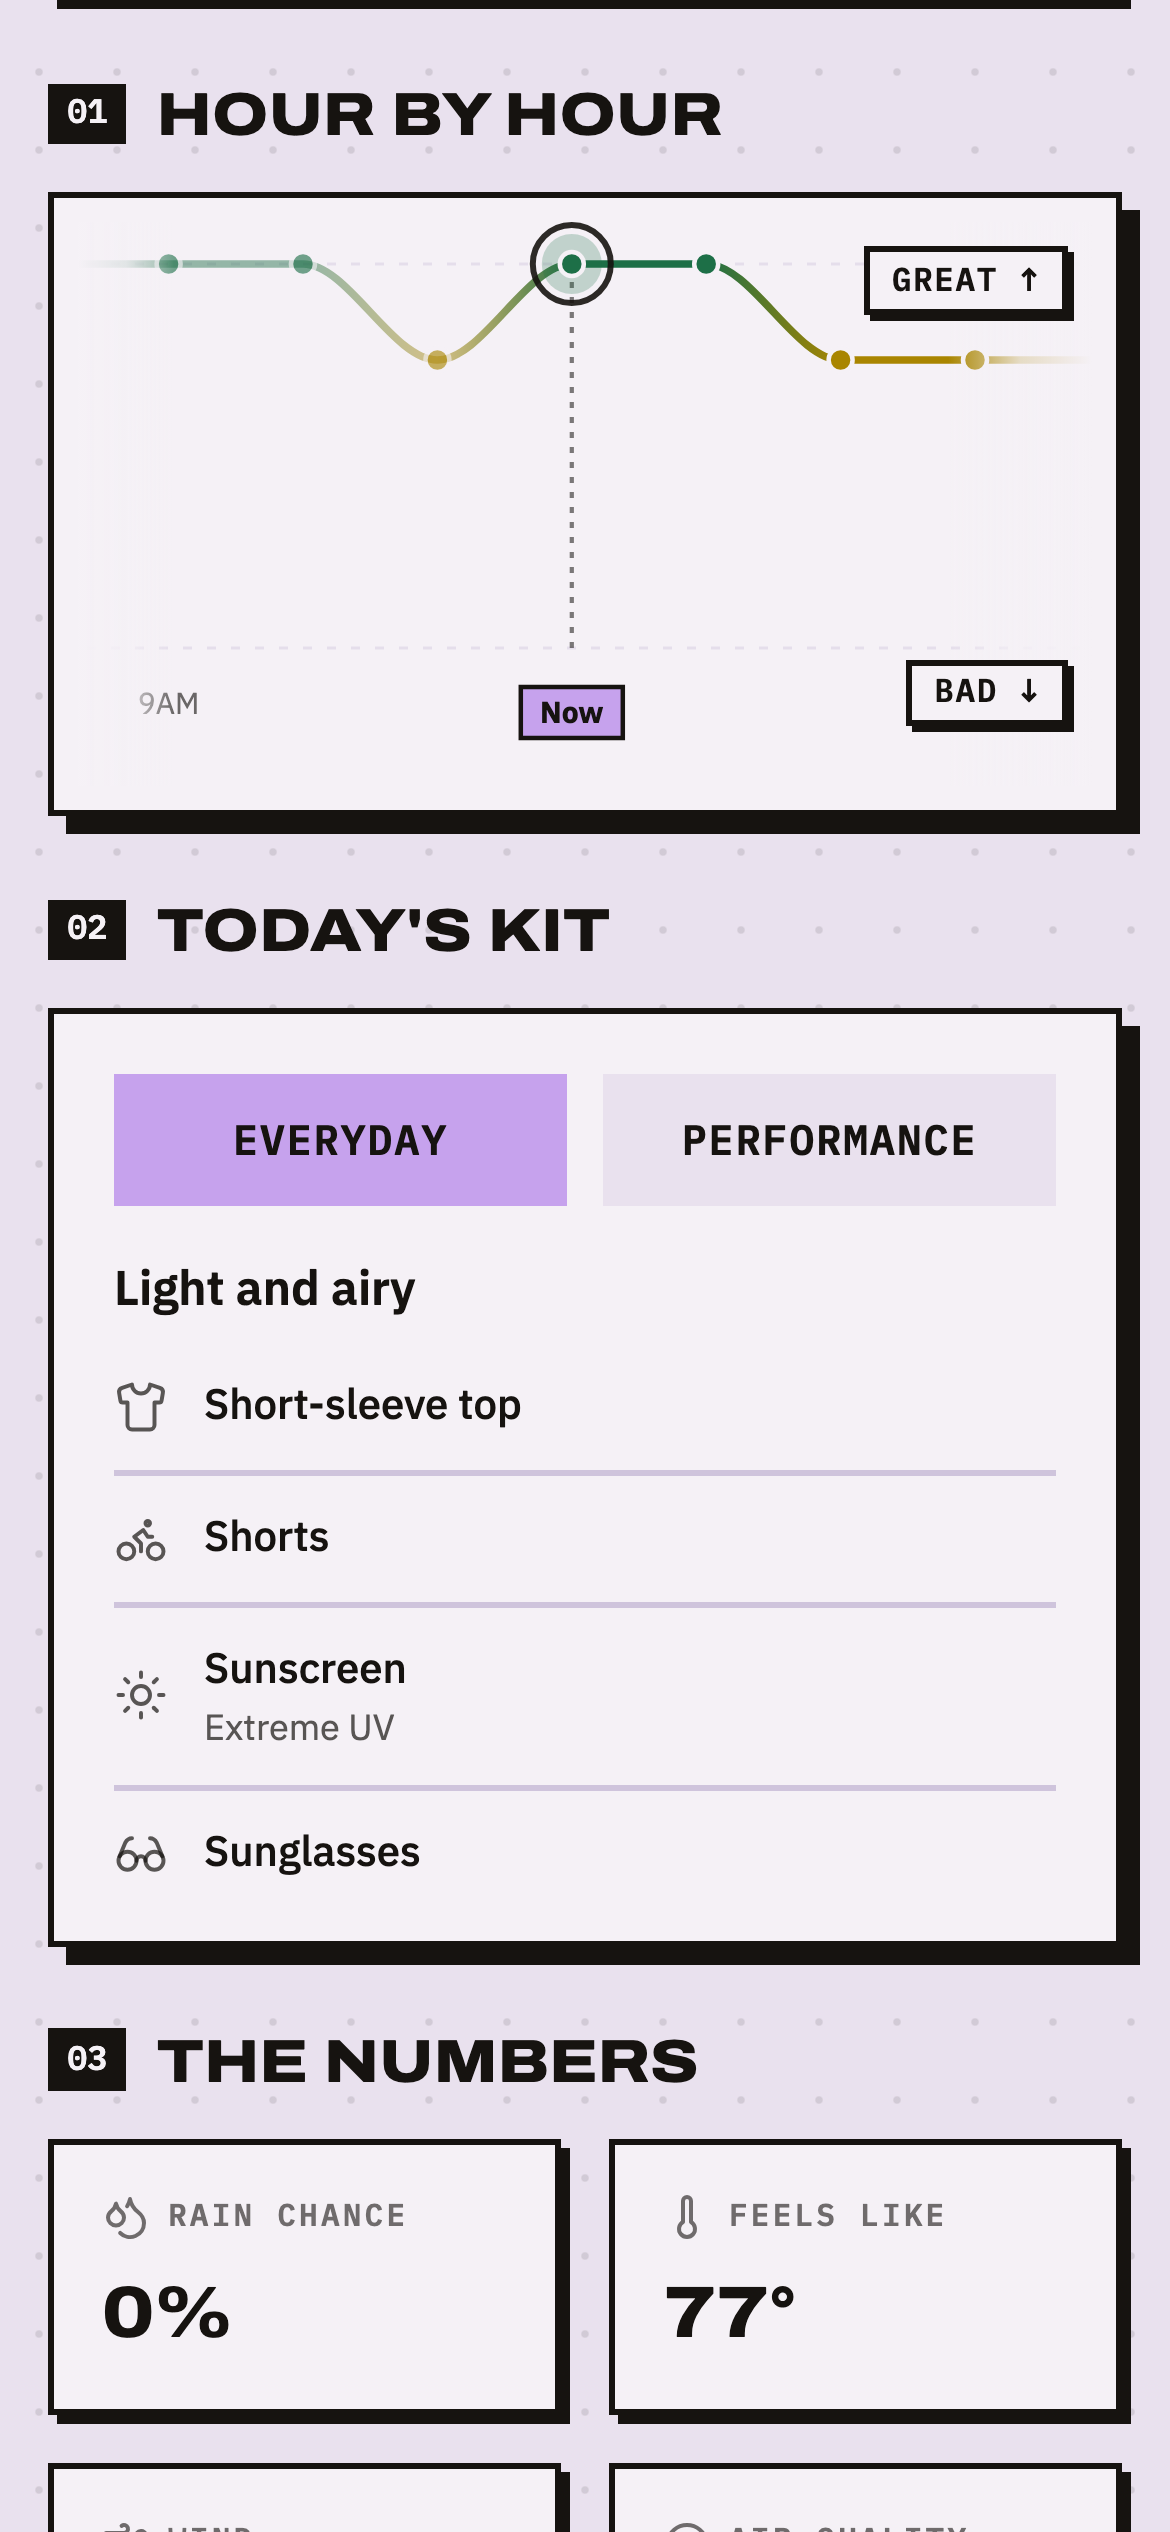
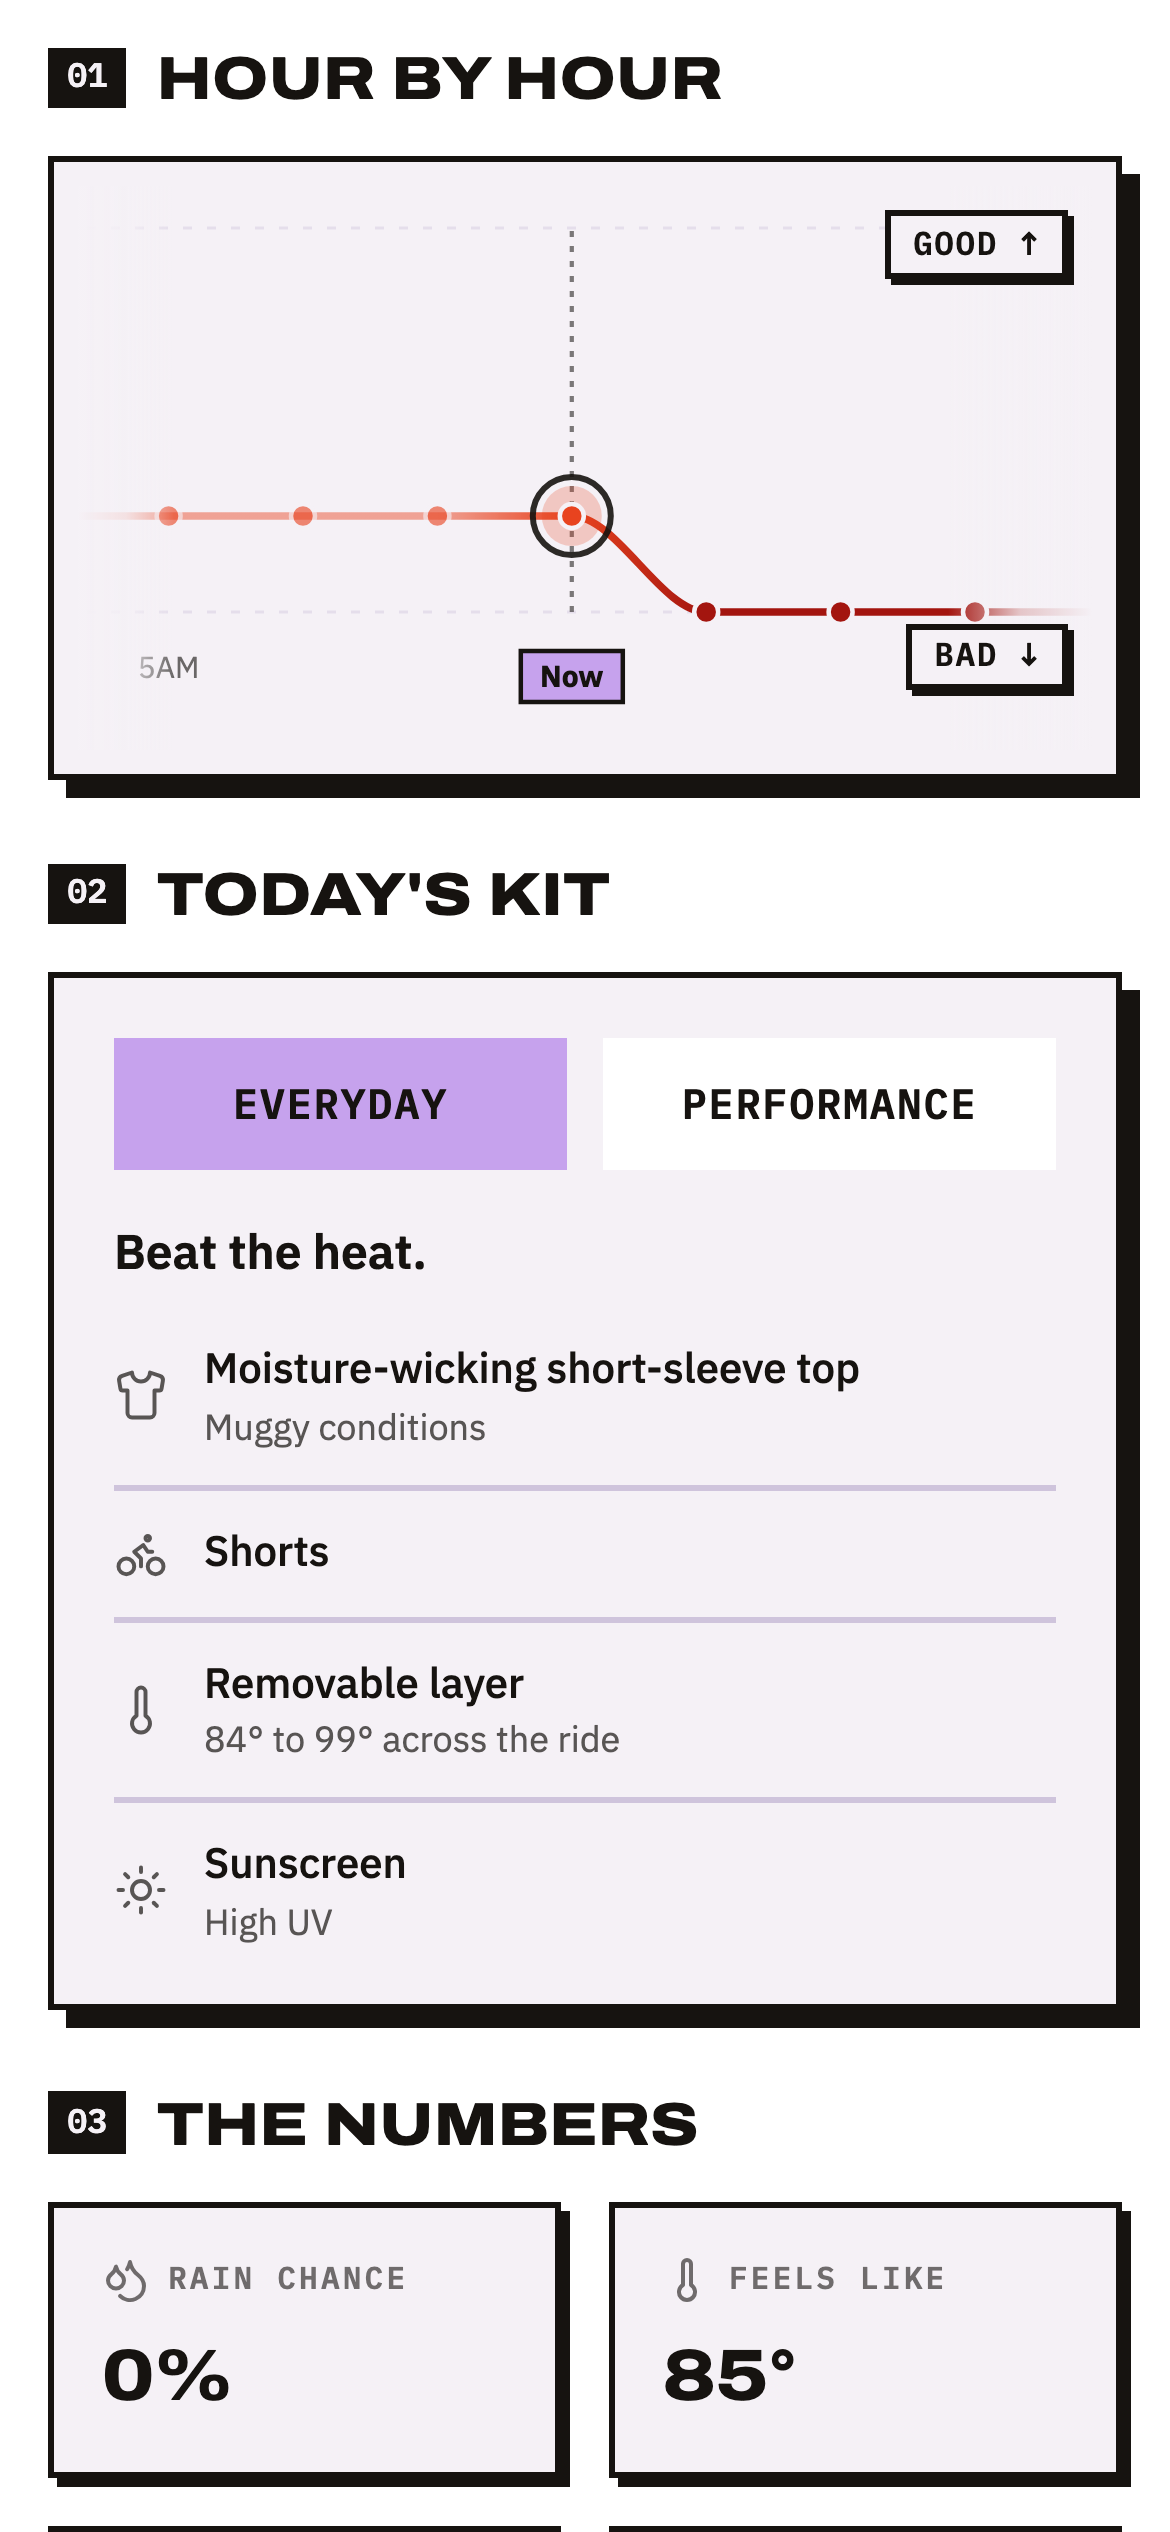
Refresh Wheely Weather screenshots and annotations
Re-capture all five case-study screenshots against the app's redesigned UI
(Seattle for the green "ideal" verdict, Raleigh for the orange rest-day),
and add scripts/capture-wheely-screenshots.mjs to make future refreshes
repeatable.

Rework the figure annotations to match the new screens: reword the labels,
make connector-dot positions independent of label length (fixed badge width
plus a per-annotation --reach), realign each dot onto its target, and add a
"Best ride day, starred" callout to the Week Ahead figure. Update alt text
for the new verdict cities/conditions.

diff --git a/src/data/projects.ts b/src/data/projects.ts
@@ -49,7 +49,7 @@ export const projects: Project[] = [
     tags: ["UX/UI", "Product strategy", "Astro & React", "Accessibility"],
     image: wheelyHeroImg,
     imageAlt:
-      "Wheely Weather app showing an “IDEAL RIDE CONDITIONS” verdict on a deep green background for San Francisco.",
+      "Wheely Weather app showing an “IDEAL RIDE CONDITIONS” verdict on a deep green background for Seattle.",
     imageObjectPosition: "top",
     liveUrl: "https://wheelyweather.app",
     featured: true,

diff --git a/CLAUDE.md b/CLAUDE.md
@@ -13,6 +13,8 @@ This file provides guidance to Claude Code (claude.ai/code) when working with co
 
 No test runner is configured. `playwright` is in devDependencies but unused — `npm test` does not exist.
 
+The site builds to static output and deploys to Cloudflare (deploy state lives in the gitignored `.wrangler/`); `site` is set to `https://nm.works` in `astro.config.mjs`. Two MCP servers are configured in `.mcp.json`: `shadcn` (component registry) and `astro` (hosted Astro docs).
+
 ## Architecture
 
 **Routing** is file-based under `src/pages/`. `src/layouts/main.astro` is the root shell: it imports global styles and mounts `ClientRouter` from `astro:transitions` for site-wide view transitions. `src/layouts/case-study.astro` wraps individual case study pages and pulls the "next project" link from `publishedProjects`.
@@ -24,6 +26,8 @@ No test runner is configured. `playwright` is in devDependencies but unused — 
 **UI components** in `src/components/ui/` are custom implementations built on Radix UI primitives + CVA (class-variance-authority). The `cn()` merge helper is in `src/lib/utils.ts`. Use `@/components/ui/...` and `@/lib/utils` (the `@/*` alias resolves to `src/*`).
 
 React components inside `.astro` files render as static HTML by default. Add a hydration directive (`client:load`, `client:idle`, `client:visible`) only when browser-side behavior is needed.
+
+**Resume** is generated by `scripts/make-resume.py` (python-docx), which writes the master `NoahMichaelsResume.docx` in the repo root using the Univers Next Pro typeface. Only the exported `public/NoahMichaelsResume.pdf` is served from the site. Edit the script, not the `.docx`, when changing resume content. The title is "UX & Product Designer."
 
 ## Code Style
 
